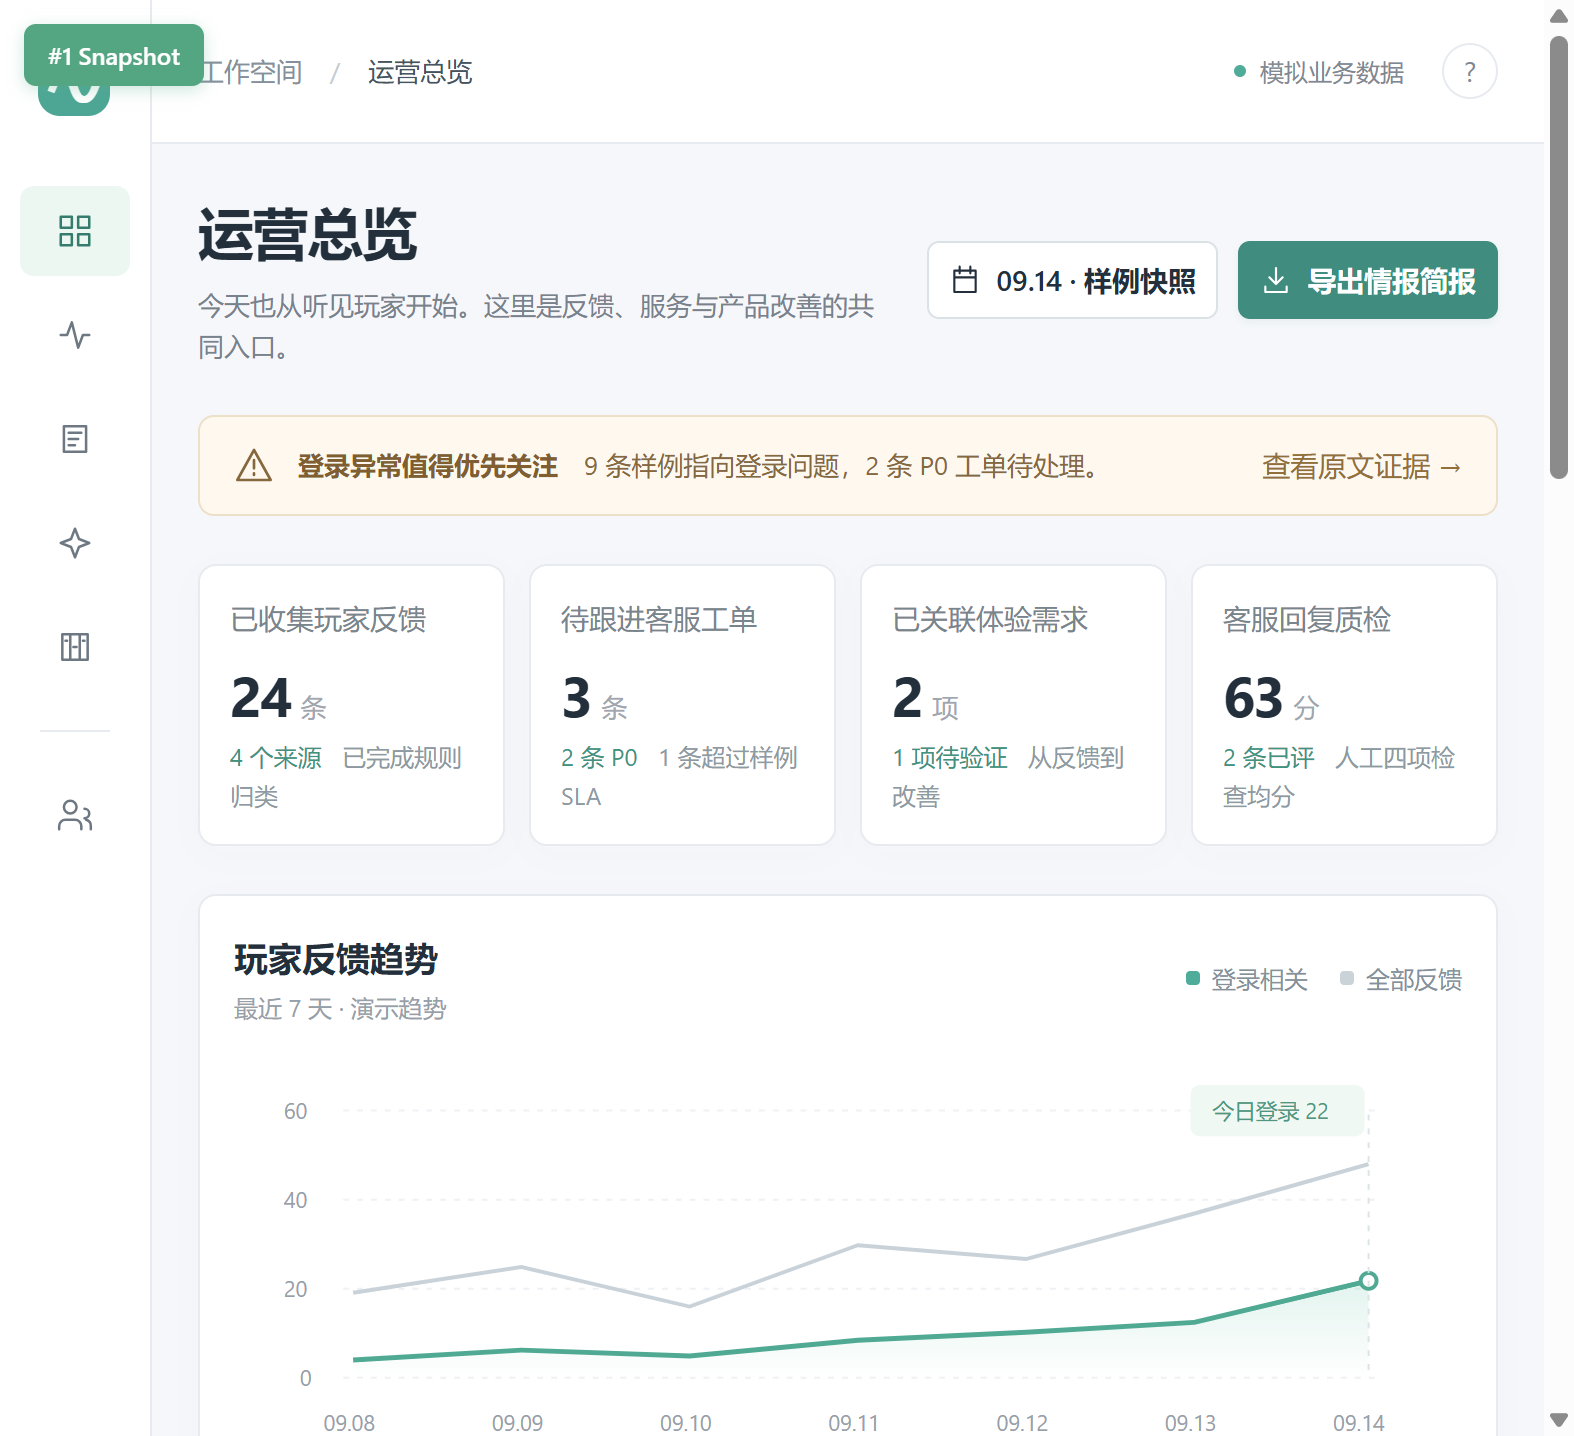
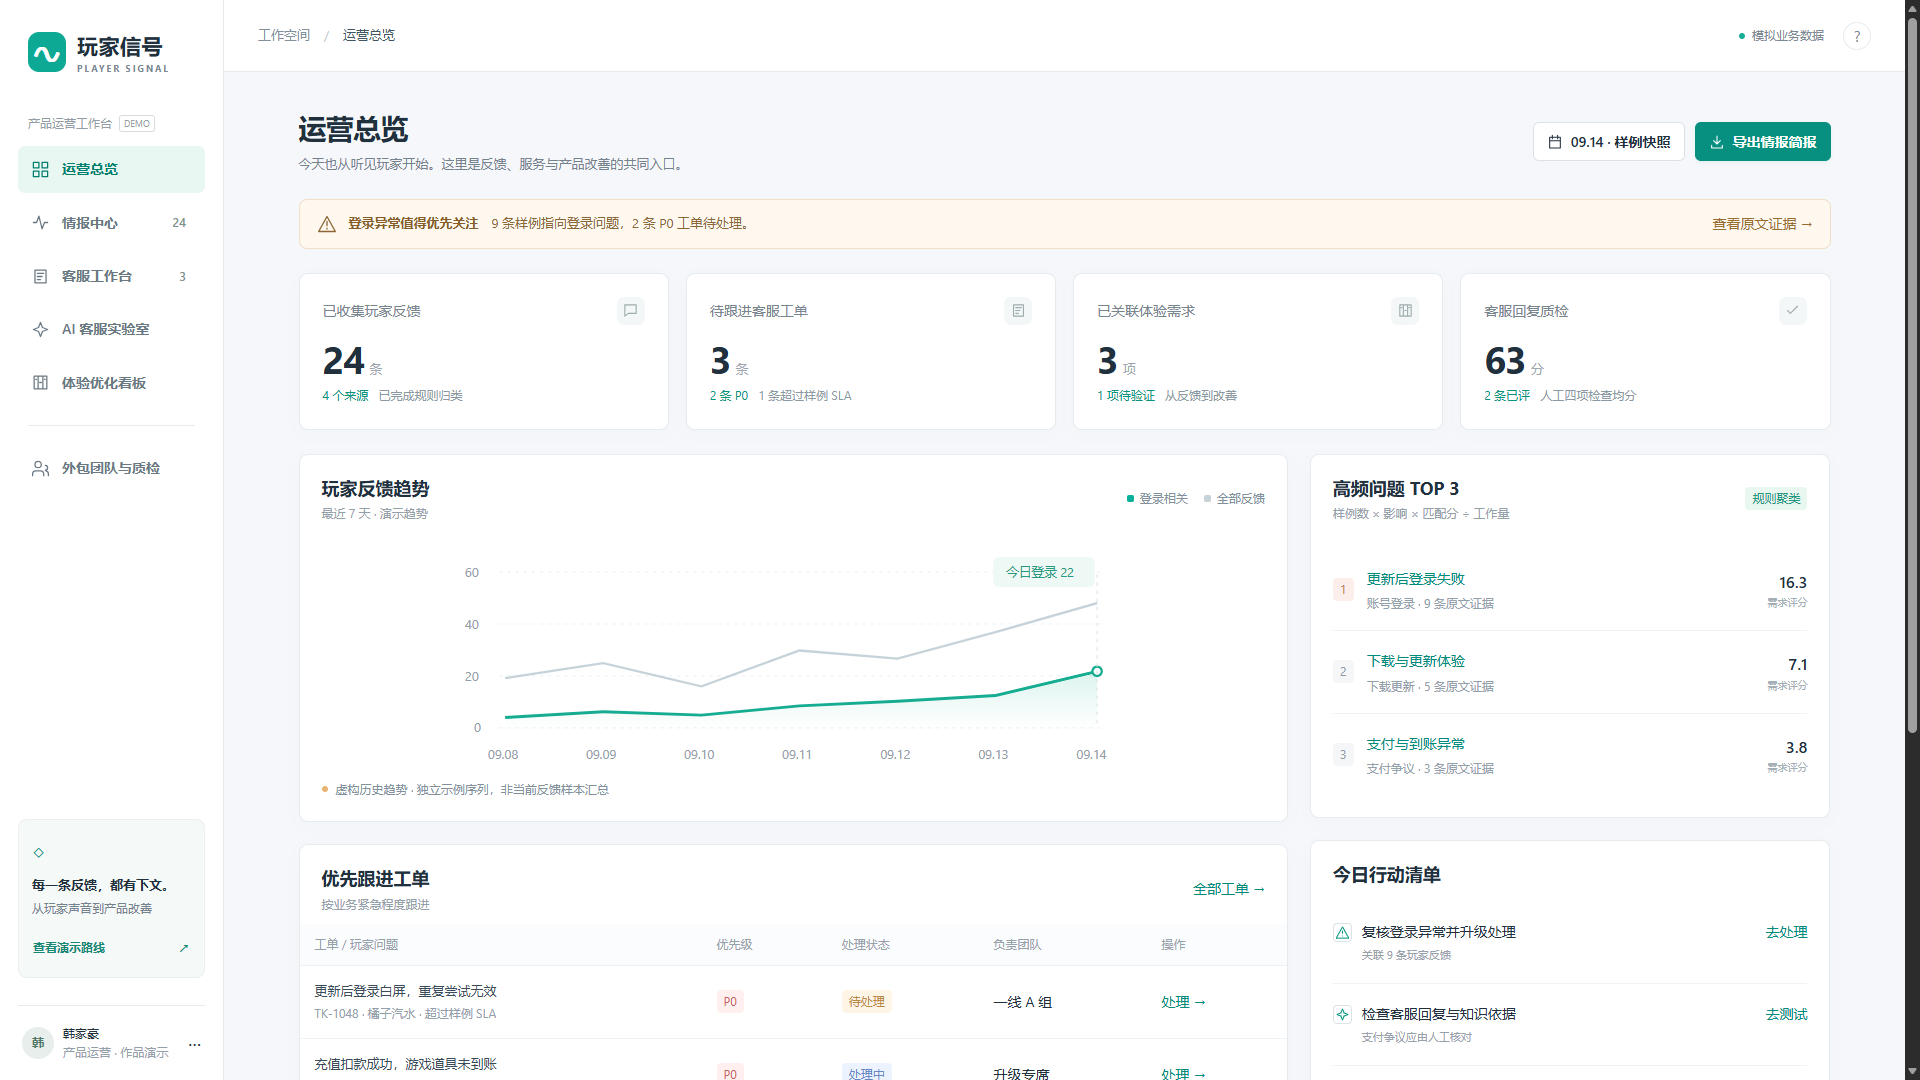
更新作品区：新增体育局双项目、胡金波官网、Nebula卡片，替换项目01首图

diff --git a/index.html b/index.html
@@ -325,6 +325,23 @@ body {
   transition: transform 0.8s cubic-bezier(0.25, 0.46, 0.45, 0.94);
 }
 .work-card:hover .work-card-img img { transform: scale(1.05); }
+.work-card-img-dual {
+  display: grid;
+  grid-template-columns: 1fr 1fr;
+  gap: 0;
+  width: 100%;
+  height: 400px;
+  overflow: hidden;
+  position: relative;
+}
+.work-card-img-dual img {
+  width: 100%;
+  height: 100%;
+  object-fit: cover;
+  object-position: center top;
+  transition: transform 0.8s cubic-bezier(0.25, 0.46, 0.45, 0.94);
+}
+.work-card:hover .work-card-img-dual img { transform: scale(1.05); }
 .work-card-overlay {
   position: absolute; inset: 0;
   background: linear-gradient(to top, rgba(248,246,241,0.9) 0%, transparent 60%);
@@ -779,23 +796,43 @@ body {
 
     <!-- Project 3 -->
     <div class="work-card reveal">
-      <div class="work-card-img">
-        <img src="assets/project-dashboard.png" alt="数据可视化大屏">
+      <div class="work-card-img-dual">
+        <img src="assets/project-dashboard.png" alt="上海市体育局体质健康测试展示大屏">
+        <img src="assets/sh-sports-monitor.png" alt="上海市体育局体质监测系统">
         <div class="work-card-overlay"></div>
       </div>
       <div class="work-card-body">
         <div class="work-card-num">03</div>
-        <h3 class="work-card-title">数据可视化 · 数据 → 呈现 → 决策</h3>
-        <p class="work-card-desc">基于 React + ECharts 将原始监测数据转化为地图、排行、趋势图，支持多分辨率自适应与数据轮播——可直接迁移到情报/舆情可视化与需求报告的呈现能力。</p>
+        <h3 class="work-card-title">上海市体育局双项目 · 数据 → 呈现 → 决策</h3>
+        <p class="work-card-desc">一期交付上海市体育局体质健康测试展示大屏（React + DVA + ECharts），独立完成地图、排行、趋势图等核心图表，采用组件化分区布局与数据轮播，保障多分辨率下自适应稳定投放；二期交付体育局监测系统（Spring Boot + Vue 3 全栈），覆盖监测数据接入、统计分析、可视化全链路，并完成达梦（DM）国产化数据库适配与 Redis 会话共享优化。两项独立交付，沉淀"数据 → 呈现 → 决策"完整链路，可直接迁移到情报/舆情可视化与需求报告。</p>
         <div class="work-card-tags">
-          <span class="work-tag">数据可视化</span>
-          <span class="work-tag">情报呈现</span>
+          <span class="work-tag">体育局展示大屏</span>
+          <span class="work-tag">体质监测系统</span>
           <span class="work-tag">ECharts</span>
+          <span class="work-tag">国产化数据库</span>
         </div>
       </div>
     </div>
 
     <!-- Project 4 -->
+    <div class="work-card reveal">
+      <div class="work-card-img">
+        <img src="assets/sioc-hujinbo-site.png" alt="SIOC 胡金波课题组官网">
+        <div class="work-card-overlay"></div>
+      </div>
+      <div class="work-card-body">
+        <div class="work-card-num">04</div>
+        <h3 class="work-card-title">SIOC 胡金波课题组官网 · 前端开发</h3>
+        <p class="work-card-desc">中科院上海有机化学研究所（SIOC）胡金波课题组官网，完全依据设计稿还原开发整站前端。围绕清晰的视觉层级沟通复杂的课题组信息，兼顾桌面与移动端布局与导航，保障多端视觉还原度与浏览体验——体现高质量 UI 还原、垂类页面设计与产品化实现的细节把控能力。</p>
+        <div class="work-card-tags">
+          <span class="work-tag">官网前端</span>
+          <span class="work-tag">多端适配</span>
+          <span class="work-tag">UI 细节</span>
+        </div>
+      </div>
+    </div>
+
+    <!-- Project 5 -->
     <div class="work-card reveal">
       <div class="work-card-img-split">
         <div class="split-left">
@@ -809,14 +846,14 @@ body {
         <div class="work-card-overlay"></div>
       </div>
       <div class="work-card-body">
-        <div class="work-card-num">04</div>
-        <h3 class="work-card-title">AI 工作流 & Nebula 游戏平台 · 用系统解决一类问题</h3>
-        <p class="work-card-desc">从 0 搭建 AI 内容生产 SOP，把多人重复流程标准化、工具化；独立构建 Nebula 游戏平台（用户认证、小游戏交易、数据分析后台），理解游戏站内用户运营与用户诉求。</p>
+        <div class="work-card-num">05</div>
+        <h3 class="work-card-title">Nebula 游戏平台 & AI 工作流 · 用系统解决一类问题</h3>
+        <p class="work-card-desc">从 0 搭建 AI 内容生产 SOP，把多人重复流程标准化、工具化；独立构建 Nebula 游戏平台（用户认证、小游戏交易、数据分析后台），理解游戏站内用户运营与用户诉求；并训练专属 LoRA 模型保证原创 IP 角色一致性。</p>
         <div class="work-card-tags">
           <span class="work-tag">游戏平台</span>
           <span class="work-tag">SOP 制定</span>
           <span class="work-tag">工作流搭建</span>
-          <span class="work-tag">数据分析后端</span>
+          <span class="work-tag">LoRA 模型</span>
         </div>
       </div>
     </div>
